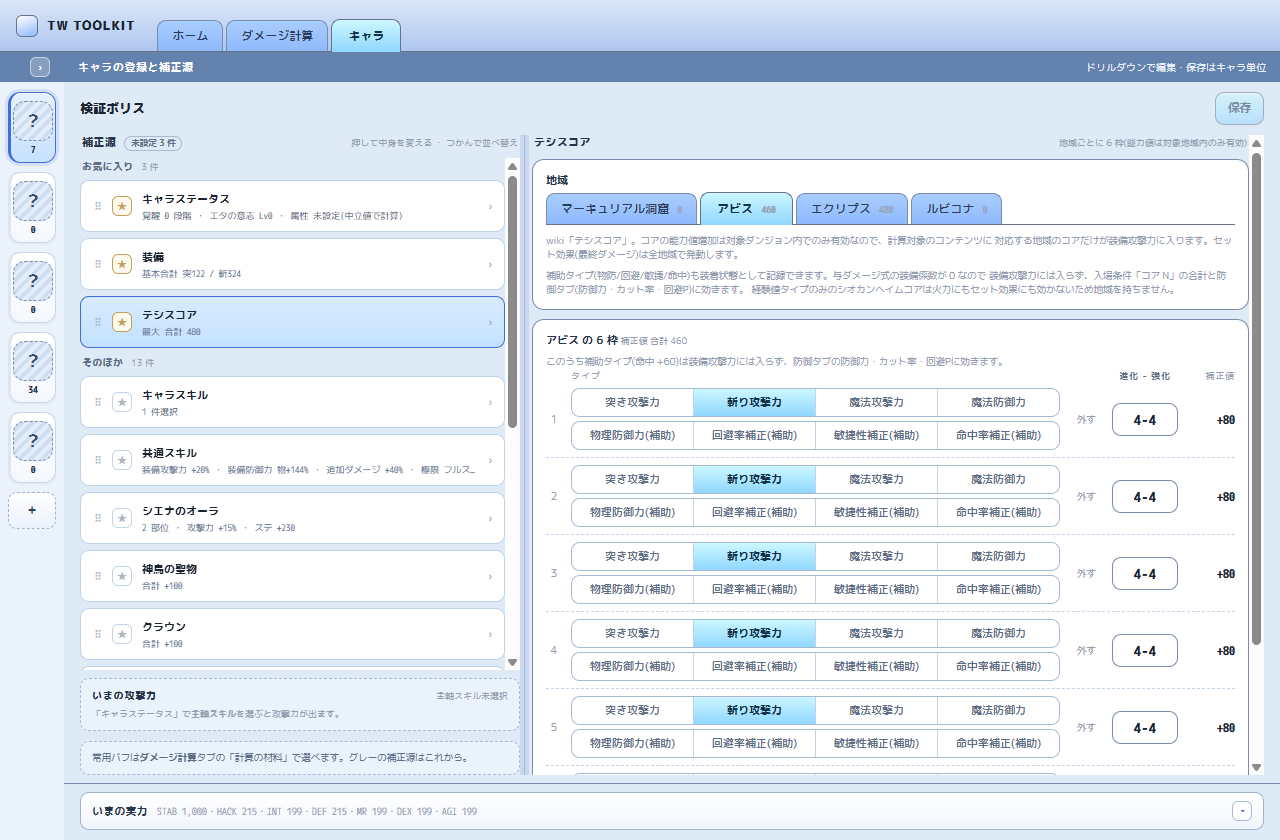
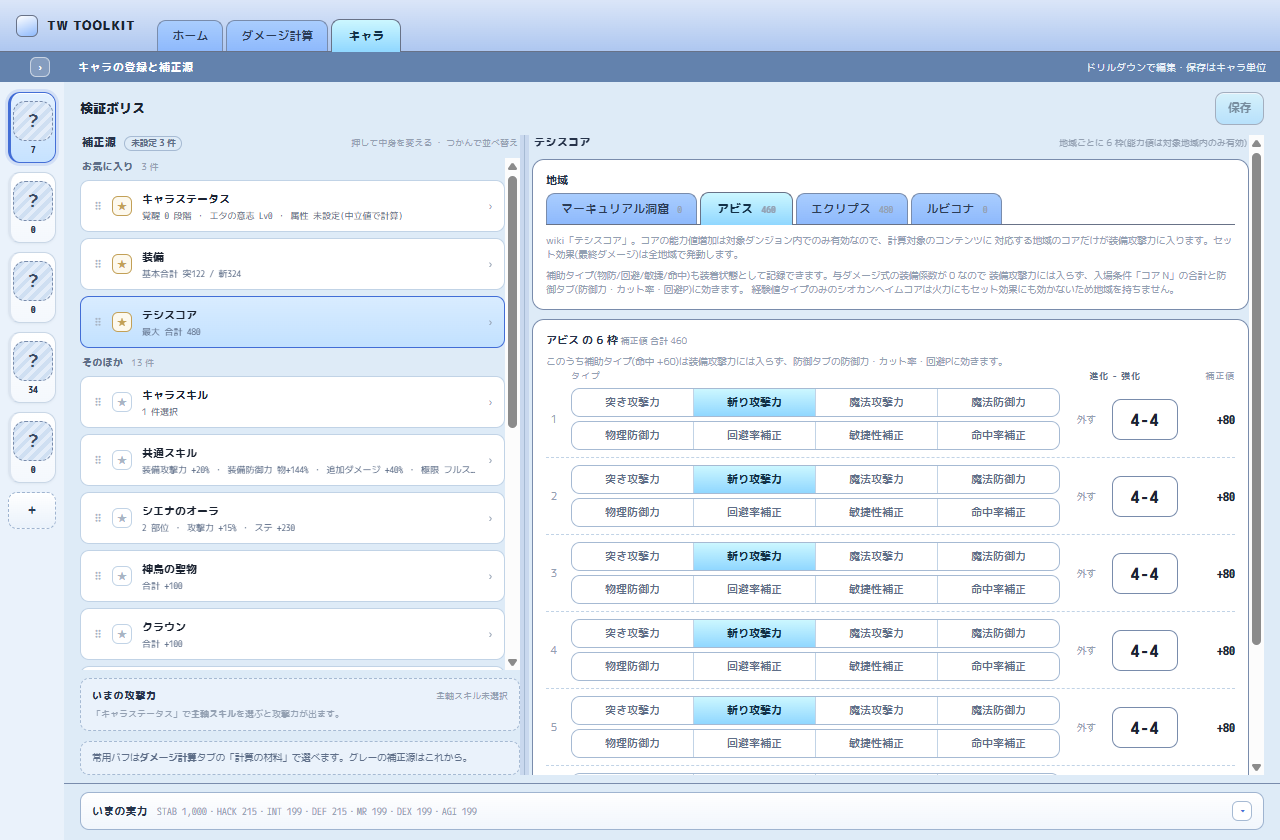
fix(ui): テシスコアのラベルから「(補助)」を落とし、進化-強化を手厚くする
- 段が分かれていて上にも注記があるので、ラベルの「(補助)」は 4 回同じ語を読ませるだけ
- タイプの段は語が短くなったぶん詰め、空いた幅を進化-強化に回す(118px / 17px 太字)。
  選ぶ 5×5 のマスも大きくした。この行で見に来ているのは「どこまで育てたか」なので

Claude-Session: https://claude.ai/code/session_01JvRWxU3ohwNNHW2hQatCCP

diff --git a/apps/desktop/src/pages/chars/SourcePane.svelte b/apps/desktop/src/pages/chars/SourcePane.svelte
@@ -548,9 +548,10 @@
   // 「未装着」は段に入れない。ほぼ選ばれないものが常に 1 列を占めるのは割に合わない。
   // 外すのは行末の小さな × 1 つで足りる(§00 02「要らないものを見せない」)
   const corePowerOptions = CORE_POWER_TYPES.map((t) => ({ value: t, label: CORE_TYPE_LABELS[t] }));
+  // ラベルに「(補助)」を付けない。段が分かれていて、上にも注記がある — 4 回同じ語を読ませない
   const coreSupportOptions = CORE_SUPPORT_TYPES.map((t) => ({
     value: t,
-    label: `${CORE_TYPE_LABELS[t]}(補助)`,
+    label: CORE_TYPE_LABELS[t],
   }));
   const coreSupportInUse = $derived(
     draft.equipment.thesis_cores[coreRegion].slots.some(
@@ -1931,7 +1932,7 @@
 
   .core-list { display: flex; flex-direction: column; gap: 7px; }
   .core-head {
-    display: grid; grid-template-columns: 16px 1fr 34px 66px 48px; gap: 9px;
+    display: grid; grid-template-columns: 16px minmax(0, 1fr) 34px 118px 52px; gap: 9px;
     margin-bottom: 5px; font-size: 9px; letter-spacing: 0.1em; color: var(--fg-dim);
   }
   .core-head .lead { text-align: center; color: var(--fg-muted); font-weight: 700; }
@@ -1958,10 +1959,10 @@
   /* この行の主役。どのコアかより「どこまで育てたか」を見に来ているので、
      ここだけ大きく・濃くする(§00「触る場所だけ大きく」) */
   .stage-trigger {
-    width: 100%; padding: 7px 0; border-radius: var(--r-panel);
+    width: 100%; padding: 9px 0; border-radius: var(--r-panel);
     background: var(--bg-field); border: 1px solid var(--border-strong);
     box-shadow: inset 0 1px 0 #fff;
-    font-size: 14px; font-weight: 800; color: var(--fg); letter-spacing: 0.04em;
+    font-size: 17px; font-weight: 800; color: var(--fg); letter-spacing: 0.06em;
   }
   .stage-trigger:hover:not(:disabled) { border-color: var(--accent); background: var(--bg-active); }
   .stage-trigger:disabled { color: var(--fg-off); }
@@ -1974,11 +1975,11 @@
     box-shadow: 0 8px 20px rgba(30, 44, 74, 0.26);
   }
   .stage-pop-h { margin-bottom: 5px; font-size: 9px; letter-spacing: 0.1em; color: var(--fg-dim); }
-  .stage-grid { display: grid; grid-template-columns: repeat(5, 1fr); gap: 3px; }
+  .stage-grid { display: grid; grid-template-columns: repeat(5, 1fr); gap: 4px; }
   .stage-cell {
-    padding: 4px 7px; border-radius: var(--r-inset);
+    padding: 7px 10px; border-radius: var(--r-inset);
     background: var(--bg-rail); border: 1px solid var(--border-soft);
-    font-size: 11px; color: var(--fg-sub); white-space: nowrap;
+    font-size: 12.5px; font-weight: 700; color: var(--fg-sub); white-space: nowrap;
   }
   .stage-cell:hover:not(.on) { background: var(--bg-active); }
   .stage-cell.on { background: var(--sel); border-color: var(--sel-bd); color: var(--sel-fg); font-weight: 700; }
